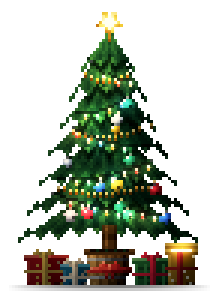
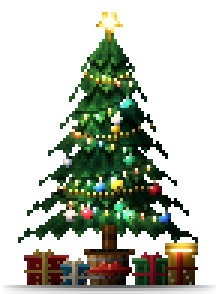
Natal: árvore plantada na barra de atalhos (sombra de contato) e guirlanda maior; fora do ar até o OK do Tales

Changed region(s): [[0.0274, 0.949, 0.9863, 1.0]]

diff --git a/src/estilos/natal/NatalInicio.css b/src/estilos/natal/NatalInicio.css
@@ -28,7 +28,9 @@
   [data-natal="sim"] .jn-trilha__meta { grid-column: 4; grid-row: 1; }
 }
 .natal-arvore { position: relative; align-self: stretch; width: 146px; pointer-events: none; }
-.natal-arvore__img { position: absolute; left: 0; bottom: calc(-2.2rem - 6px); width: 146px; height: 196px;
+/* O chão da pintura (6 px acima do pé da imagem) assenta na borda da barra de atalhos, afundando 4 px nela:
+   1.2rem do respiro de baixo da trilha + 24 px do vão até a barra + 4 + 6. */
+.natal-arvore__img { position: absolute; left: 0; bottom: calc(-1.2rem - 34px); width: 146px; height: 196px;
   background: url('/pixel/natal/arvore.png') no-repeat 0 0 / 146px 196px; image-rendering: pixelated; }
 .natal-arvore__luz { position: absolute; z-index: -1; left: -80px; top: -80px; width: 306px; height: 300px;
   background: url('/pixel/natal/arvore-luz.png') no-repeat 0 0 / 306px 300px; mix-blend-mode: screen; animation: natal-respirar 5s ease-in-out infinite; }
@@ -37,20 +39,21 @@
 .natal-arvore__estrela { position: absolute; left: 51px; top: -7px; width: 44px; height: 44px;
   background: url('/pixel/natal/arvore-estrela.png') no-repeat 0 0 / 44px 44px; mix-blend-mode: screen; animation: natal-respirar 2.4s ease-in-out infinite; }
 @media (max-width: 60rem) {
-  /* No celular a trilha empilha: a árvore fica no canto de cima à direita, menor, e o texto do número quebra antes. */
-  [data-natal="sim"] .jn-trilha__numero { padding-right: 84px; }
-  .natal-arvore { position: absolute; top: -1.6rem; right: 0.4rem; width: 73px; height: 98px; align-self: auto; }
-  .natal-arvore__img { bottom: auto; top: 0; transform: scale(0.5); transform-origin: 0 0; }
+  /* No celular a árvore também fica plantada na barra de atalhos, no canto direito, subindo pela linha da meta do dia
+     (que abre espaço à direita para ela). O vão até a barra é de 18 px; o chão da pintura afunda 4 px na borda. */
+  [data-natal="sim"] .jn-trilha__meta { grid-template-columns: minmax(0, 1fr); padding-right: 66px; }
+  .natal-arvore { position: absolute; top: auto; bottom: -26px; right: 0.3rem; width: 66px; height: 88px; align-self: auto; }
+  .natal-arvore__img { bottom: auto; top: 0; transform: scale(0.45); transform-origin: 0 0; }
 }
 
 /* ── A guirlanda pendurada no canto de cima à esquerda da barra de atalhos, por cima da caixa ── */
 [data-natal="sim"] .jn-atalhos { position: relative; z-index: 3; }
-.natal-guirlanda { position: absolute; z-index: 5; top: -46px; left: -53px; width: 106px; height: 126px; pointer-events: none;
-  background: url('/pixel/natal/guirlanda.png') no-repeat 0 0 / 106px 126px; image-rendering: pixelated; }
-.natal-guirlanda__luz { position: absolute; z-index: -1; left: -48px; top: -48px; width: 202px; height: 222px;
-  background: url('/pixel/natal/guirlanda-luz.png') no-repeat 0 0 / 202px 222px; mix-blend-mode: screen; animation: natal-respirar 3.6s ease-in-out infinite; }
+.natal-guirlanda { position: absolute; z-index: 5; top: -70px; left: -80px; width: 159px; height: 189px; pointer-events: none;
+  background: url('/pixel/natal/guirlanda.png') no-repeat 0 0 / 159px 189px; image-rendering: pixelated; }
+.natal-guirlanda__luz { position: absolute; z-index: -1; left: -72px; top: -72px; width: 303px; height: 333px;
+  background: url('/pixel/natal/guirlanda-luz.png') no-repeat 0 0 / 303px 333px; mix-blend-mode: screen; animation: natal-respirar 3.6s ease-in-out infinite; }
 @media (max-width: 60rem) {
-  .natal-guirlanda { top: -30px; left: -18px; transform: scale(0.6); transform-origin: 0 0; }
+  .natal-guirlanda { top: -42px; left: -30px; transform: scale(0.42); transform-origin: 0 0; }
 }
 
 /* ── Embaixo: o boneco de neve com a caneca e a lanterna, junto da turma do cartão do Instagram (o monte de neve passa da borda) ── */

diff --git a/scripts/natal/arvore.py b/scripts/natal/arvore.py
@@ -346,10 +346,11 @@ def presentes(c: Camada, e: Camada) -> list:
 
 
 def sombra_no_chao(c: Camada) -> None:
-    for x in range(CX - 34, CX + 35):
-        u = (x - CX) / 34
-        a = 0.5 * (1 - u * u)
-        c.p(x, YB + 1, "#05080a", a); c.p(x, YB + 2, "#05080a", a * 0.45)
+    """A sombra de contato no chão: mais escura colada no balde e nos presentes, abrindo e clareando para os lados."""
+    for x in range(CX - 36, CX + 37):
+        u = (x - CX) / 36
+        a = 0.62 * (1 - u * u) ** 0.8
+        c.p(x, YB + 1, "#05080a", a); c.p(x, YB + 2, "#05080a", a * 0.5); c.p(x, YB + 3, "#05080a", a * 0.22)
 
 
 # ───────────────────────────────────────────── montagem
